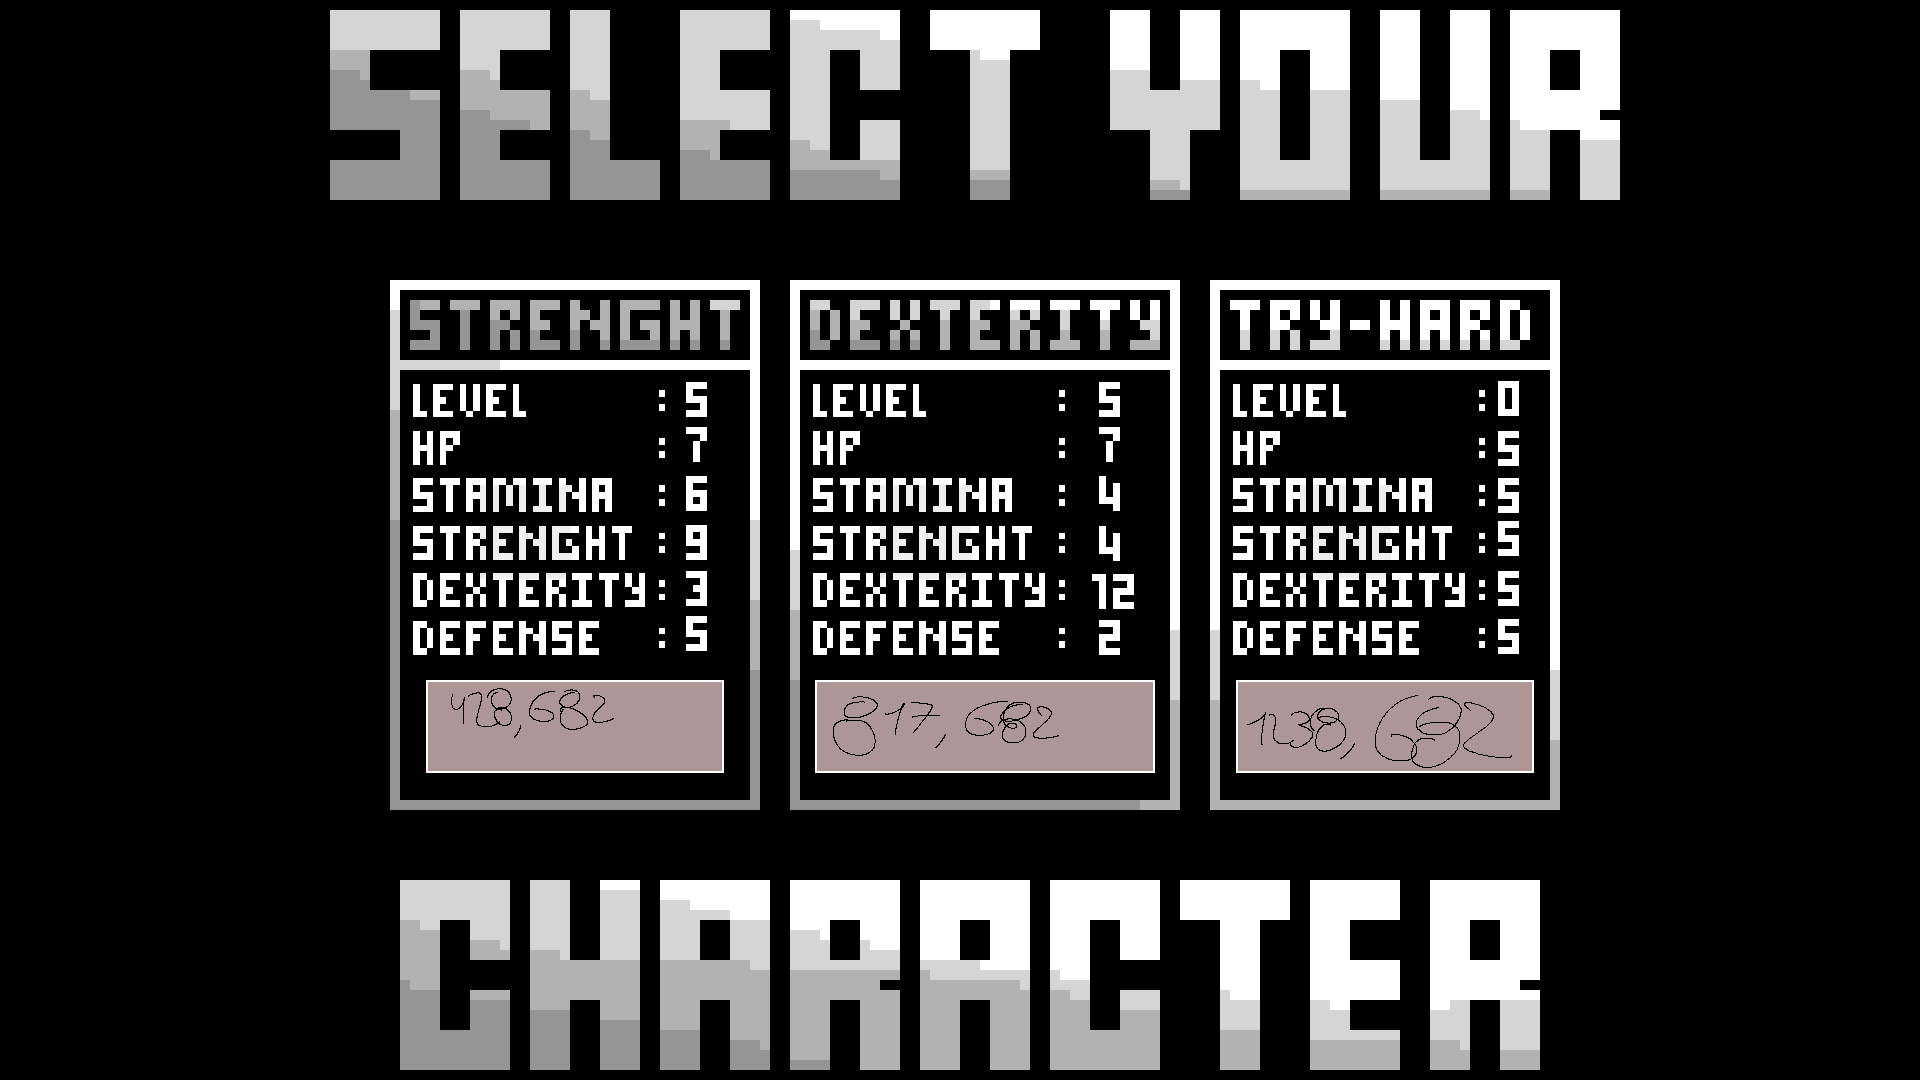
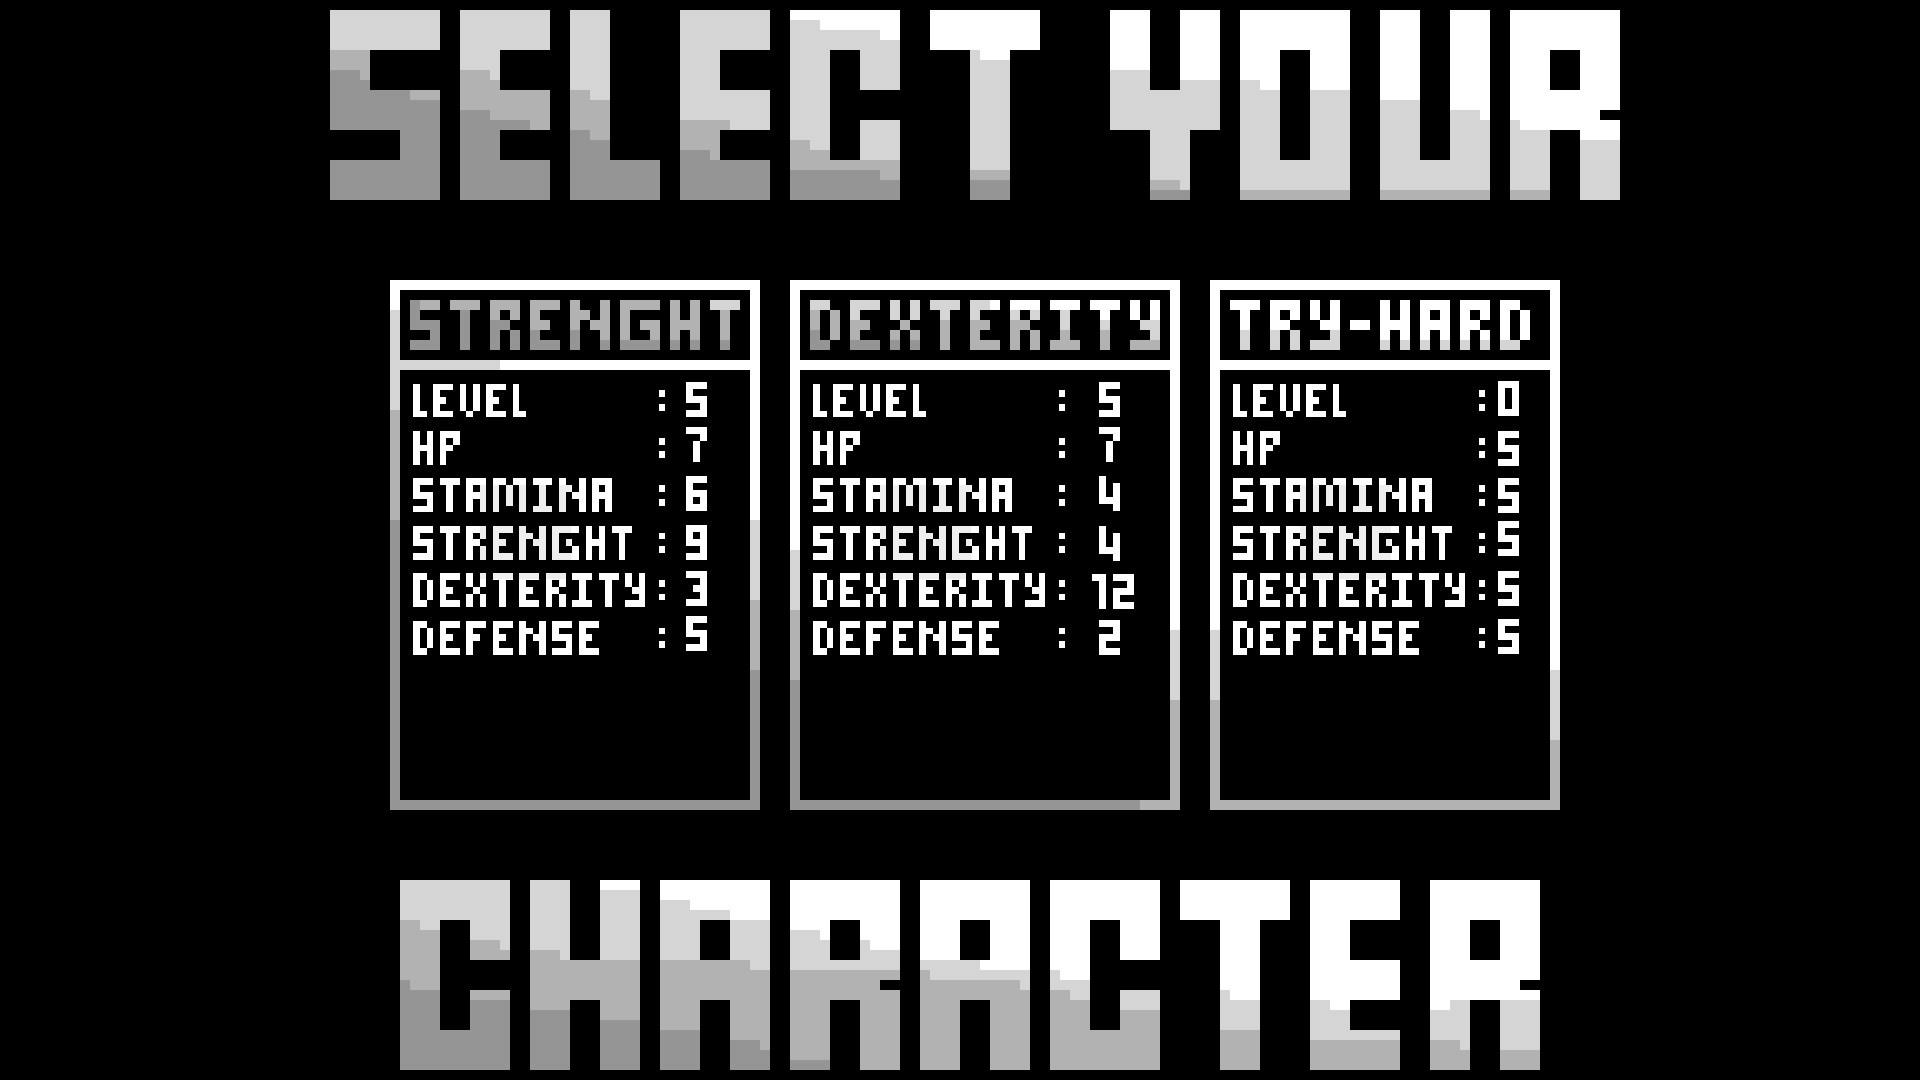
Add character stat selection screen

Changed region(s): [[0.4062, 0.6111, 0.8125, 0.7333], [0.2188, 0.6111, 0.375, 0.7333]]

diff --git a/src/character_selection/stats/character_selection.c b/src/character_selection/stats/character_selection.c
@@ -1,0 +1,69 @@
+/*
+** EPITECH PROJECT, 2023
+** B-MUL-200-LYN-2-1-myrpg-mathieu.borel
+** File description:
+** character_selection
+*/
+
+#include "../../../include/prototype.h"
+
+static void event_character(app_t *app, button_t **button_list)
+{
+    sfEvent event;
+
+    while (sfRenderWindow_pollEvent(app->window, &event)) {
+        if (event.type == sfEvtClosed)
+            sfRenderWindow_close(app->window);
+        button_event(button_list, event);
+    }
+    update_button_texture(app, button_list);
+    update_texture(button_list, app);
+}
+
+static button_t **init_character_stats_buttons(void)
+{
+    button_t **list = malloc(sizeof(button_t) * 4);
+    object_info_t info = (object_info_t){(sfVector2f){428.0f, 682.0f
+    },(sfVector2f){1.0f, 1.0f
+    },(sfVector2f){294.0f, 89.0f
+    }};
+    list[0] = create_button(info, &stat_strength_button, STAT_STRENGTH);
+    info = (object_info_t){(sfVector2f){817.0f, 682.0f
+    },(sfVector2f){1.0f, 1.0f
+    },(sfVector2f){336.0f, 89.0f
+    }};
+    list[1] = create_button(info, &stat_dexterity_button, STAT_DEXTERITY);
+    info = (object_info_t){(sfVector2f){1238.0f, 682.0f
+    },(sfVector2f){1.0f, 1.0f
+    },(sfVector2f){294.0f, 89.0f
+    }};
+    list[2] = create_button(info, &stat_default_button, STAT_DEFAULT);
+    list[3] = NULL;
+    return list;
+}
+
+static void display_character_stats(app_t *app, sprite_t *background,
+    button_t **button_list)
+{
+    sfRenderWindow_drawSprite(app->window, background->sprite, NULL);
+    for (int i = 0; i < 3; i++)
+        sfRenderWindow_drawRectangleShape(app->window,
+            button_list[i]->rect, NULL);
+    update_cursor(app);
+}
+
+void character_selection(app_t *app)
+{
+    app->state = character_stat_selection;
+    sprite_t *background =
+        create_sprite("./assets/backgrounds/character_stats.png");
+    button_t **button_list = init_character_stats_buttons();
+
+    while (sfRenderWindow_isOpen(app->window)
+        && app->state == character_stat_selection) {
+        event_character(app, button_list);
+        sfRenderWindow_clear(app->window, sfBlack);
+        display_character_stats(app, background,button_list);
+        sfRenderWindow_display(app->window);
+    }
+}

diff --git a/src/player/creation/create_player.c b/src/player/creation/create_player.c
@@ -7,7 +7,7 @@
 
 #include "../../../include/prototype.h"
 
-static void apply_strength(stat_t *player)
+void apply_strength(stat_t *player)
 {
     player->level = 5;
     player->hp = 7;
@@ -18,7 +18,7 @@ static void apply_strength(stat_t *player)
     player->experience = 0;
 }
 
-static void apply_dexterity(stat_t *player)
+void apply_dexterity(stat_t *player)
 {
     player->level = 5;
     player->hp = 7;
@@ -29,7 +29,7 @@ static void apply_dexterity(stat_t *player)
     player->experience = 0;
 }
 
-static void apply_default(stat_t *player)
+void apply_default(stat_t *player)
 {
     player->level = 0;
     player->hp = 5;

diff --git a/include/prototype.h b/include/prototype.h
@@ -226,6 +226,9 @@
     weapon_t *create_weapon(weapon_type_t type);
     void set_level_cost(stat_t *player);
     int level_up(stat_t *player);
+    void apply_strength(stat_t *player);
+    void apply_dexterity(stat_t *player);
+    void apply_default(stat_t *player);
 
     /* Credits */
     void credits(app_t *app);
@@ -248,6 +251,9 @@
 
     /* Character selection */
     void character_selection(app_t *app);
+    void stat_default_button(app_t *app);
+    void stat_strength_button(app_t *app);
+    void stat_dexterity_button(app_t *app);
 
     /* Weapons */
     void create_weapons_list(app_t *app);

diff --git a/src/character_selection/stats/callbacks.c b/src/character_selection/stats/callbacks.c
@@ -1,0 +1,25 @@
+/*
+** EPITECH PROJECT, 2023
+** B-MUL-200-LYN-2-1-myrpg-mathieu.borel
+** File description:
+** callbacks
+*/
+
+#include "../../../include/prototype.h"
+
+void stat_default_button(app_t *app)
+{
+    apply_default(app->player->stat);
+    app->state = game;
+}
+
+void stat_strength_button(app_t *app)
+{
+    apply_strength(app->player->stat);
+    app->state = game;
+}
+void stat_dexterity_button(app_t *app)
+{
+    apply_dexterity(app->player->stat);
+    app->state = game;
+}

diff --git a/include/my_macros.h b/include/my_macros.h
@@ -18,6 +18,12 @@
     #define IMAGES              "./assets/images/"
     #define TITLES              "./assets/titles/"
     #define SETTINGS            "./assets/buttons/main_menu/settings/"
+    #define STATS               BUTTONS "../character_stats/"
+
+    #define STAT_DEFAULT        STATS "try-hard.png"
+    #define STAT_STRENGTH       STATS "strenght.png"
+    #define STAT_DEXTERITY      STATS "dext.png"
+
 
     /* Game State*/
     #define DEFAULT_GAME_STATE  1
